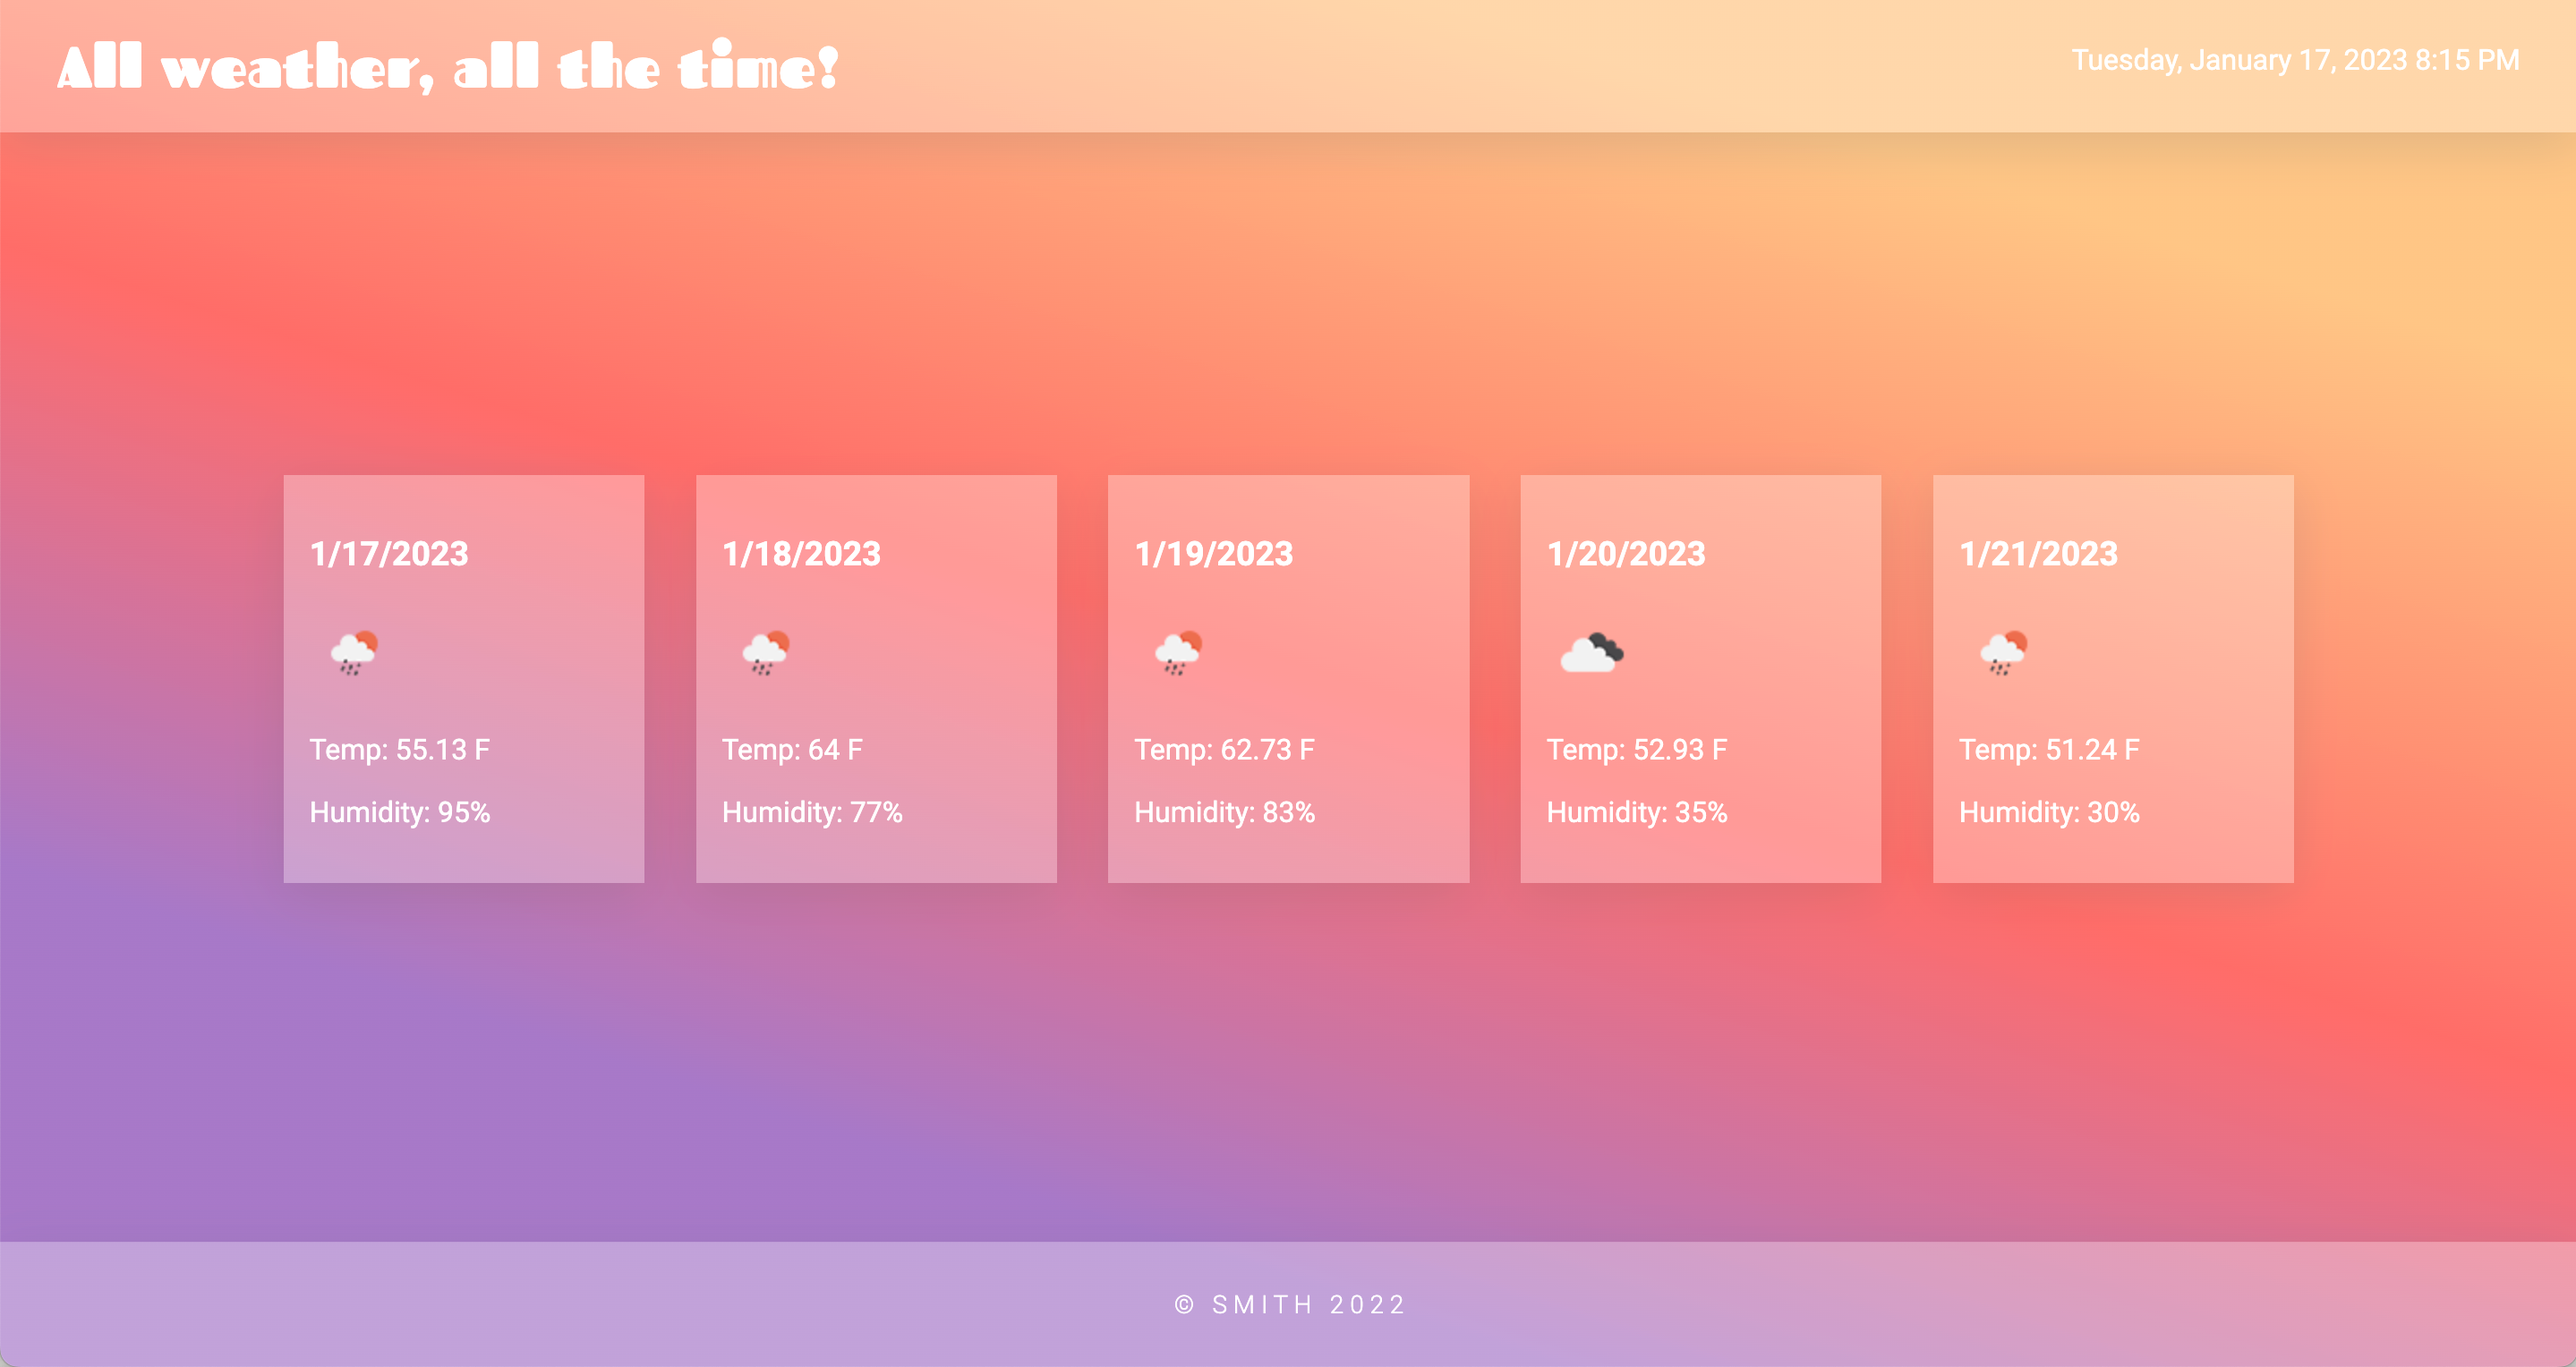
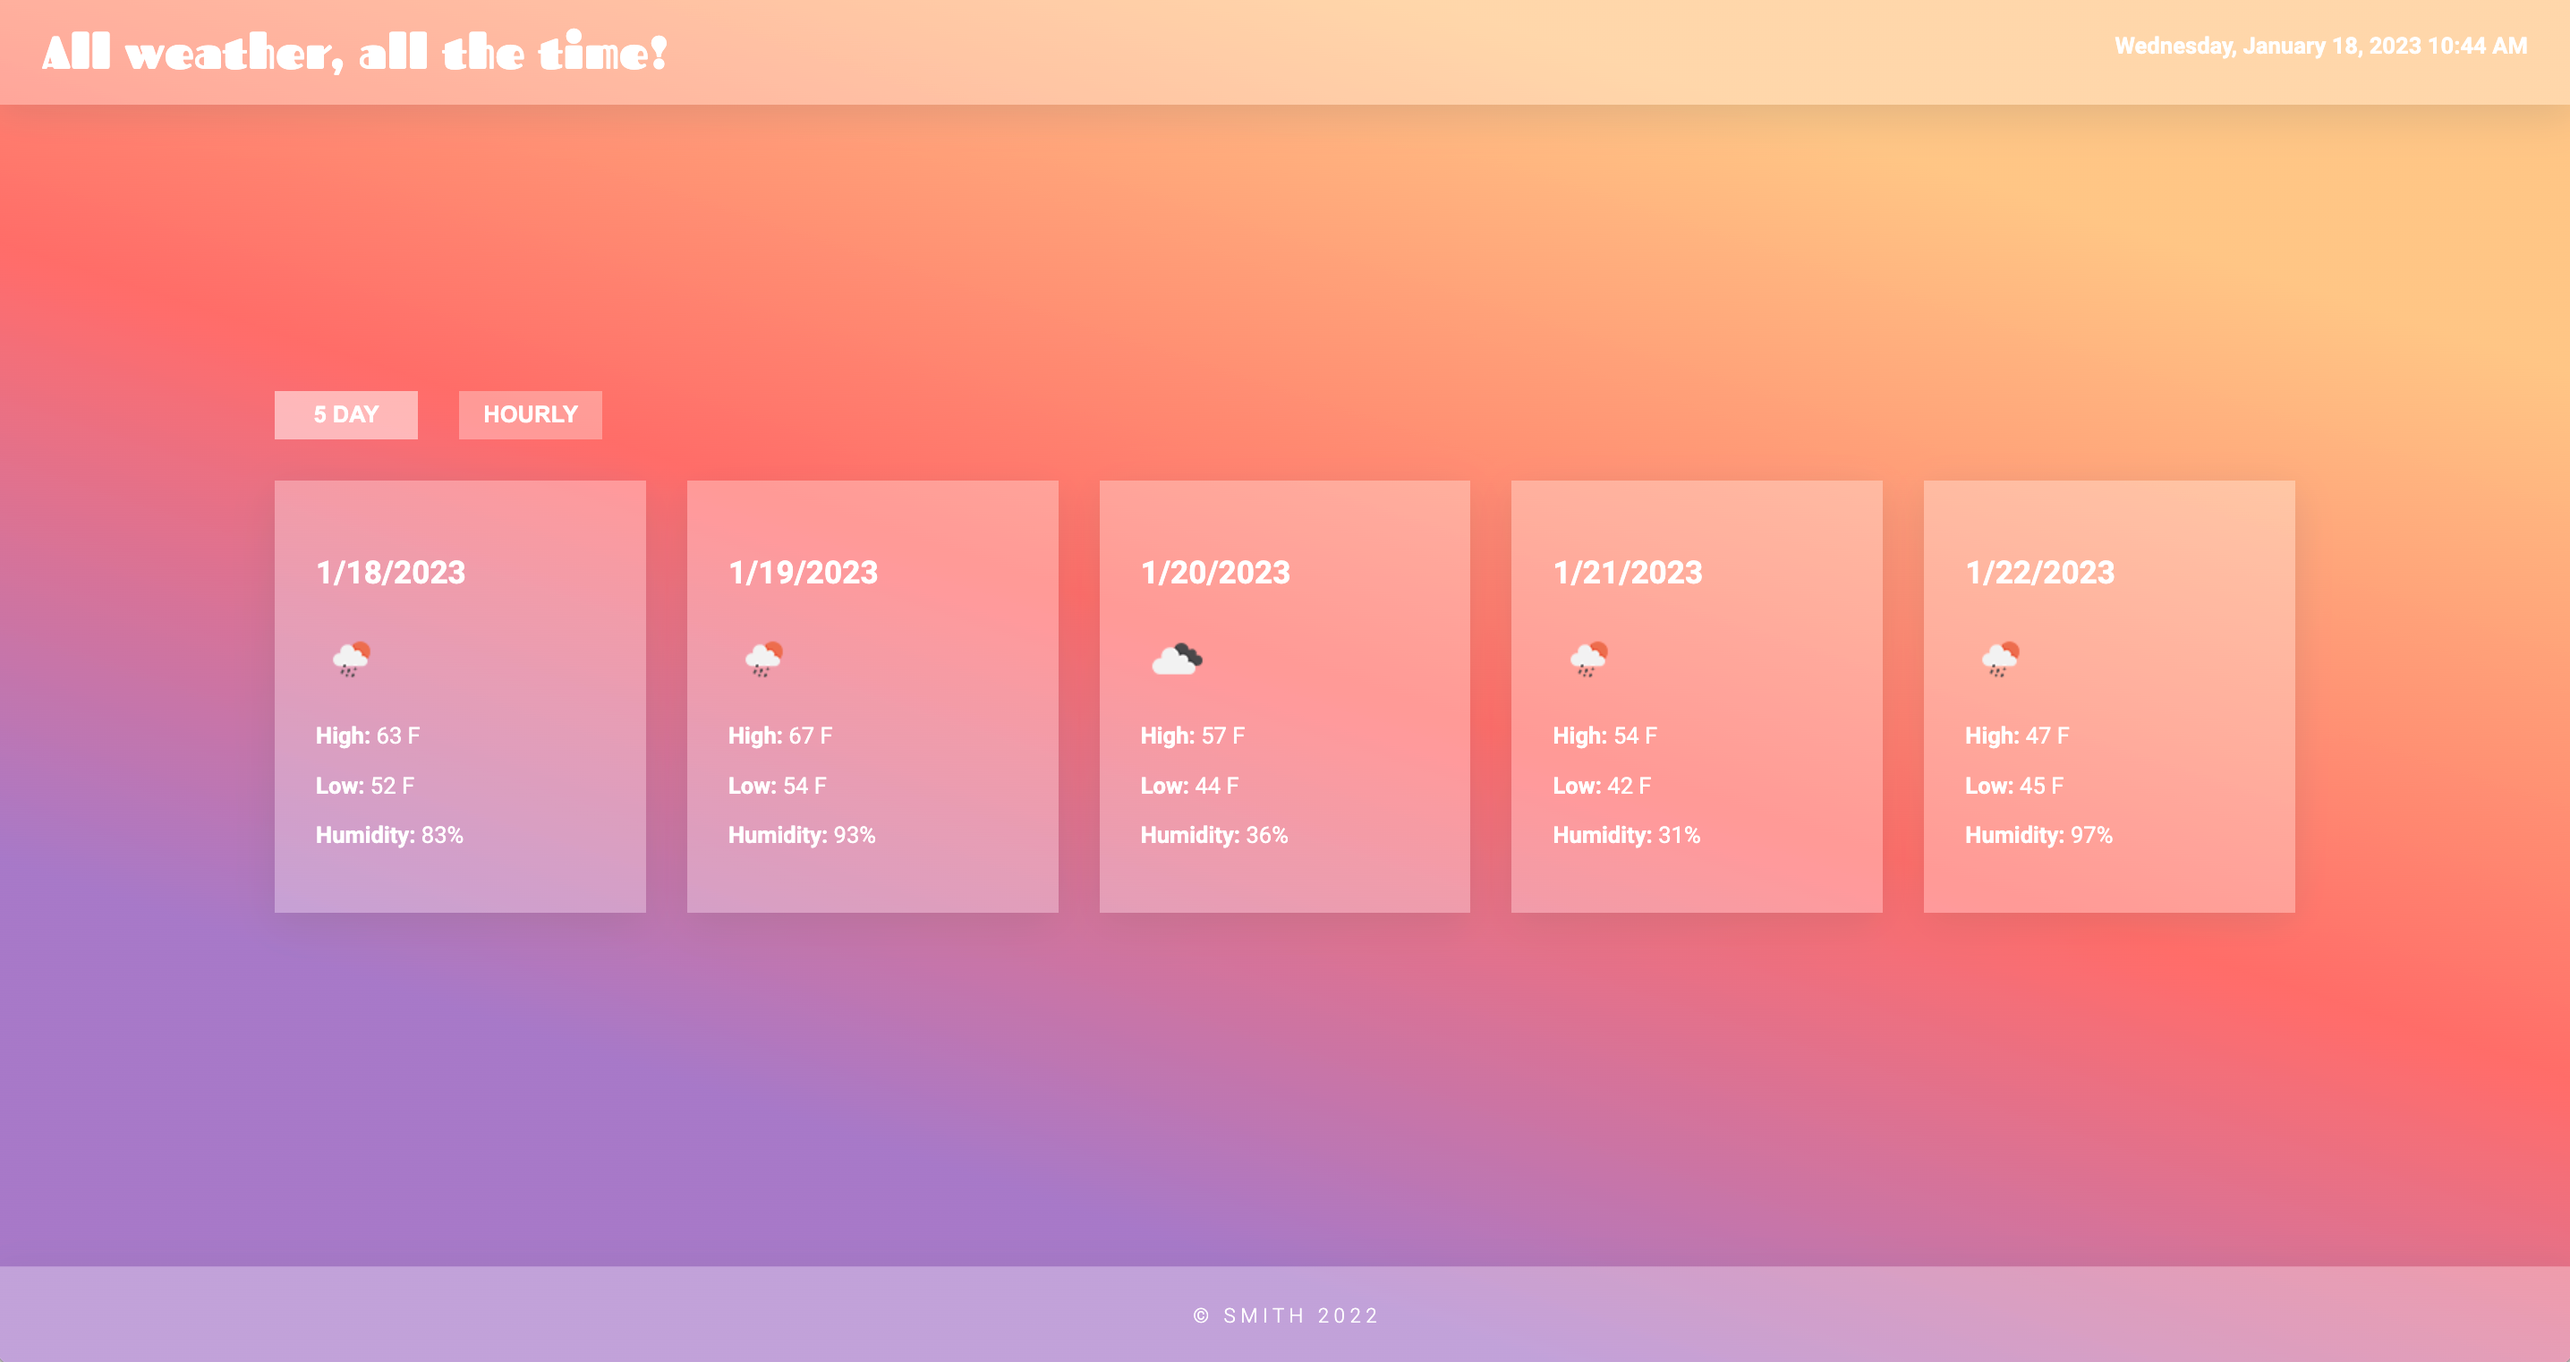
code clean up and README update

diff --git a/assets/js/script.js b/assets/js/script.js
@@ -42,15 +42,18 @@ function getForecast(lat, lon, city) {
     })
     .then((data) => {
 
-        console.log(data)
+        // console.log(data)
 
         // DISPLAY 5 DAY WEATHER
 
         // clear old 5 day cards
         daysEl.innerHTML = '';
+
         // build 5 day cards
         let daysData = data.daily;
+
         let HTML = [];
+
         for (let i=0; i<5;i++) {
 
             let hDay = new Date(daysData[i].dt * 1000).toLocaleString().split(',')[0];
@@ -69,14 +72,19 @@ function getForecast(lat, lon, city) {
 
         }
         HTML = HTML.join('');
+
         daysEl.innerHTML = HTML;
 
         // DISPLAY HOURLY WEATHER
+
         // clear old 5 day cards
         hours.innerHTML = '';
+
         // build 5 day cards
         let hoursData = data.hourly;
+
         let hourHTML = [];
+
         for (let i=0; i<5;i++) {
 
             let hDay = new Date(hoursData[i].dt * 1000).toLocaleString().split(', ')[1];
@@ -95,6 +103,7 @@ function getForecast(lat, lon, city) {
 
         }
         hourHTML = hourHTML.join('');
+        
         hours.innerHTML = hourHTML;
 
     })

diff --git a/index.html b/index.html
@@ -39,10 +39,6 @@
             <div id="hours" style="display: none"></div>
         </div>
 
-        
-
-
-
     </main>
     <footer>
         <h4>&copy; &nbsp S M I T H &nbsp 2 0 2 2</h4>

diff --git a/README.md b/README.md
@@ -1,6 +1,6 @@
 # Weather App
 
-Weather app with current and five day weather forecasts using Open Weather Map API.
+Weather app with five day  and hourly weather forecasts using Open Weather Map API.
 
 ![screenshot](./assets/images/weather.png)
 
